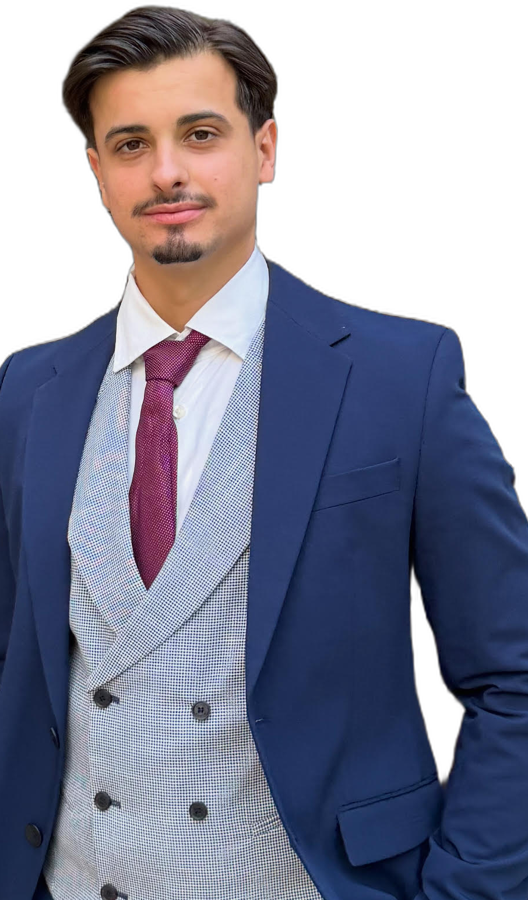
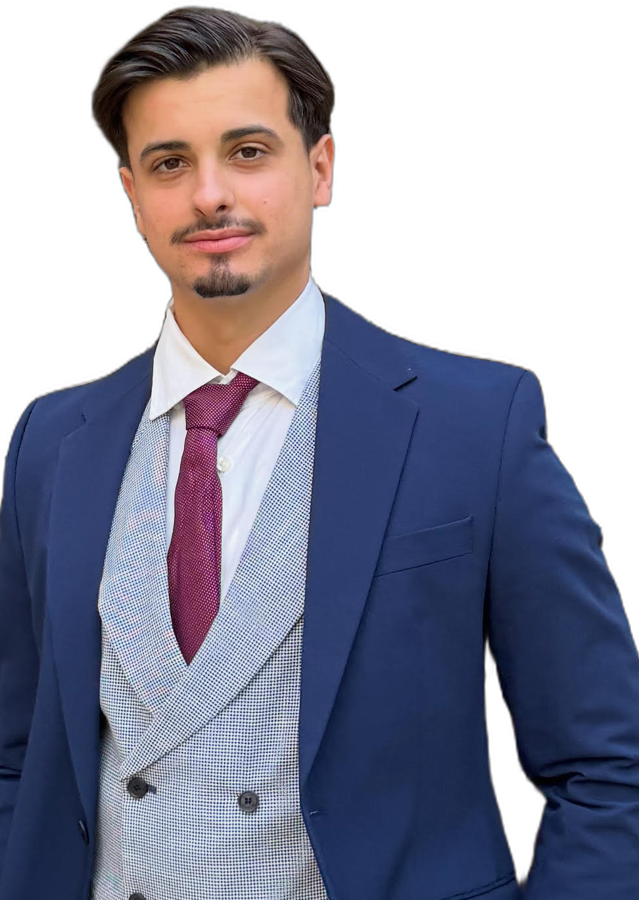
Retrato completo

diff --git a/en/index.html b/en/index.html
@@ -20,7 +20,7 @@ header{background:var(--yel);padding:56px 0 40px} .hero{display:grid;grid-templa
 h1{font-weight:900;font-size:clamp(30px,5vw,52px);line-height:1.05;margin:18px 0 14px;text-wrap:balance}
 .sub{font-size:18px;font-weight:500;max-width:56ch}
 .pic{position:relative;justify-self:center;width:min(100%,380px);aspect-ratio:1;border-radius:50%;background:var(--lila);overflow:hidden;box-shadow:0 20px 60px rgba(32,26,0,.18)}
-.pic img{position:absolute;left:50%;bottom:-6%;transform:translateX(-50%);height:118%;width:auto}
+.pic img{position:absolute;left:50%;top:7%;transform:translateX(-50%);height:100%;width:auto}
 form{margin-top:22px;background:var(--ivory);padding:18px;border-radius:18px;display:grid;gap:10px;max-width:560px;box-shadow:0 10px 30px rgba(32,26,0,.12)}
 form .row{display:grid;grid-template-columns:1fr 1fr;gap:10px}
 input[type=text],input[type=email]{width:100%;padding:14px 16px;border:2px solid #e9dfc0;border-radius:12px;font:inherit;font-size:16px;background:#fff}

diff --git a/es/index.html b/es/index.html
@@ -20,7 +20,7 @@ header{background:var(--yel);padding:56px 0 40px} .hero{display:grid;grid-templa
 h1{font-weight:900;font-size:clamp(30px,5vw,52px);line-height:1.05;margin:18px 0 14px;text-wrap:balance}
 .sub{font-size:18px;font-weight:500;max-width:56ch}
 .pic{position:relative;justify-self:center;width:min(100%,380px);aspect-ratio:1;border-radius:50%;background:var(--lila);overflow:hidden;box-shadow:0 20px 60px rgba(32,26,0,.18)}
-.pic img{position:absolute;left:50%;bottom:-6%;transform:translateX(-50%);height:118%;width:auto}
+.pic img{position:absolute;left:50%;top:7%;transform:translateX(-50%);height:100%;width:auto}
 form{margin-top:22px;background:var(--ivory);padding:18px;border-radius:18px;display:grid;gap:10px;max-width:560px;box-shadow:0 10px 30px rgba(32,26,0,.12)}
 form .row{display:grid;grid-template-columns:1fr 1fr;gap:10px}
 input[type=text],input[type=email]{width:100%;padding:14px 16px;border:2px solid #e9dfc0;border-radius:12px;font:inherit;font-size:16px;background:#fff}

diff --git a/fr/index.html b/fr/index.html
@@ -20,7 +20,7 @@ header{background:var(--yel);padding:56px 0 40px} .hero{display:grid;grid-templa
 h1{font-weight:900;font-size:clamp(30px,5vw,52px);line-height:1.05;margin:18px 0 14px;text-wrap:balance}
 .sub{font-size:18px;font-weight:500;max-width:56ch}
 .pic{position:relative;justify-self:center;width:min(100%,380px);aspect-ratio:1;border-radius:50%;background:var(--lila);overflow:hidden;box-shadow:0 20px 60px rgba(32,26,0,.18)}
-.pic img{position:absolute;left:50%;bottom:-6%;transform:translateX(-50%);height:118%;width:auto}
+.pic img{position:absolute;left:50%;top:7%;transform:translateX(-50%);height:100%;width:auto}
 form{margin-top:22px;background:var(--ivory);padding:18px;border-radius:18px;display:grid;gap:10px;max-width:560px;box-shadow:0 10px 30px rgba(32,26,0,.12)}
 form .row{display:grid;grid-template-columns:1fr 1fr;gap:10px}
 input[type=text],input[type=email]{width:100%;padding:14px 16px;border:2px solid #e9dfc0;border-radius:12px;font:inherit;font-size:16px;background:#fff}
